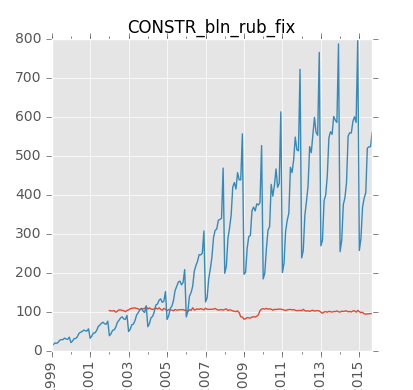
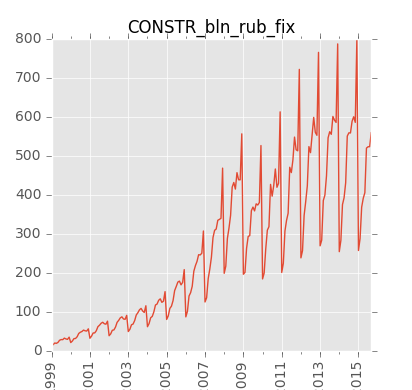
one extra .png

diff --git a/src/plots.py b/src/plots.py
@@ -149,7 +149,8 @@ if __name__ == "__main__":
     var_names = get_var_list()             
     ts = get_time_series('IND_PROD_yoy', "m", "1999-01")    
     one_plot(ts)  
-          
+    plt.close() 
+      
     # png images    
     df = get_dfm()
     write_png_pictures(df)
